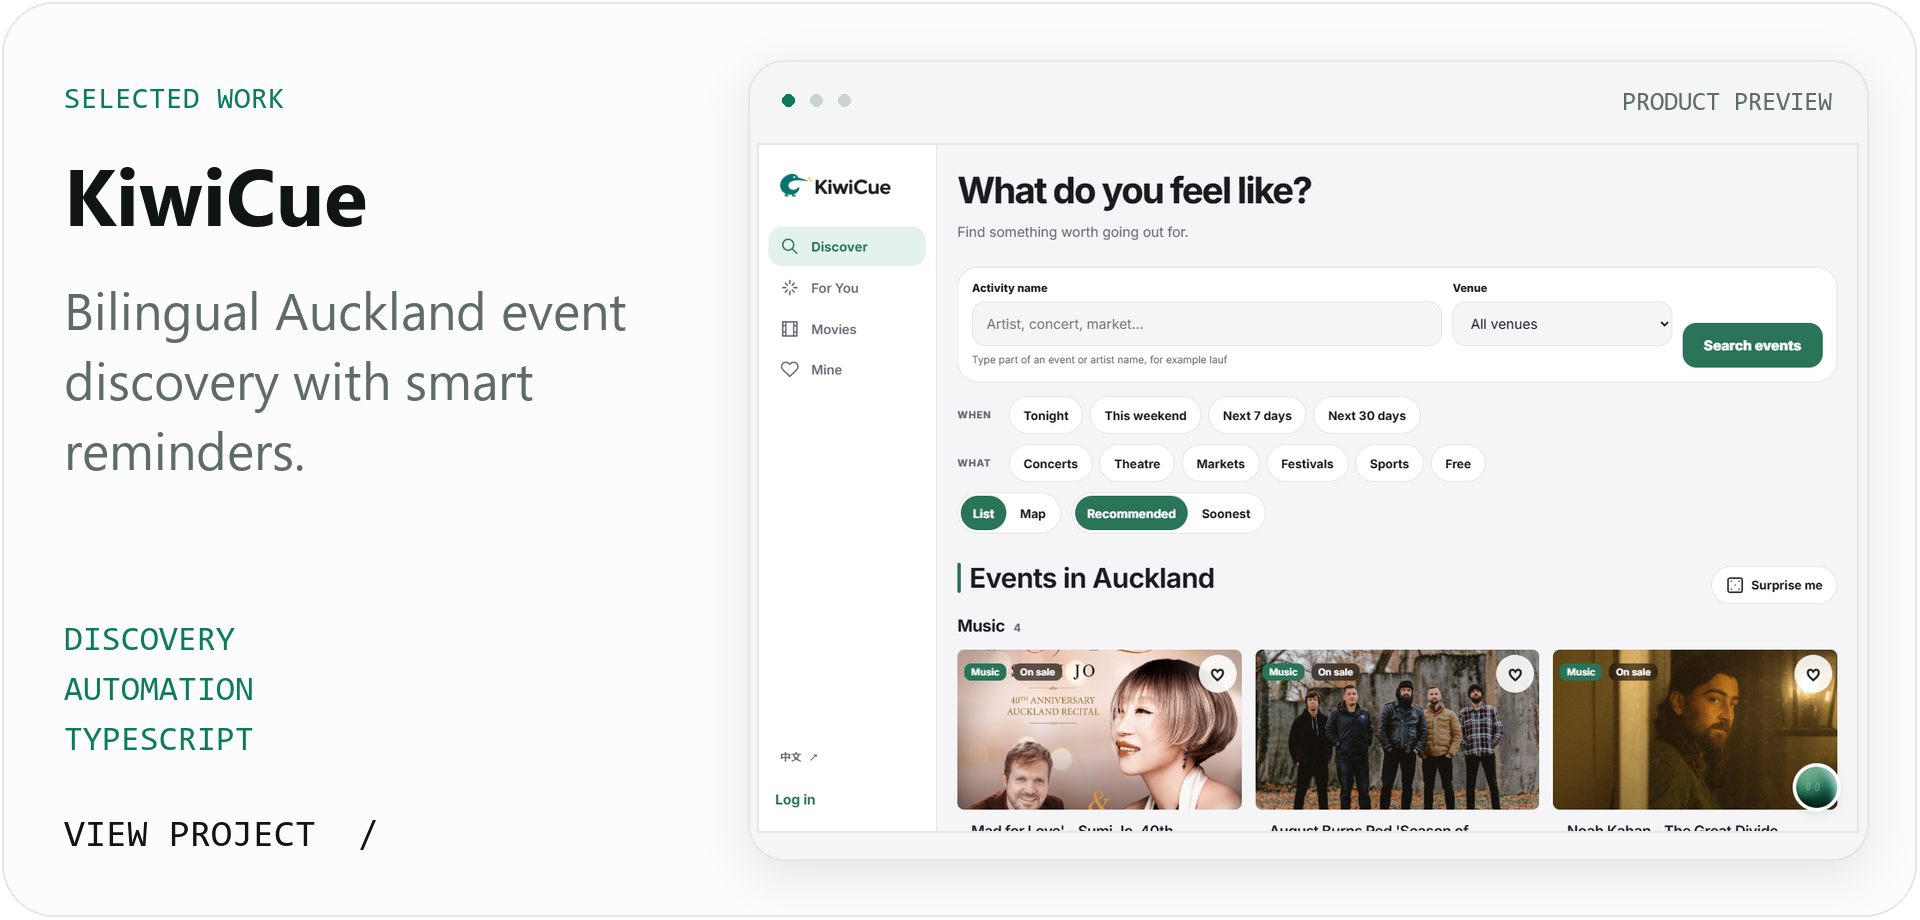
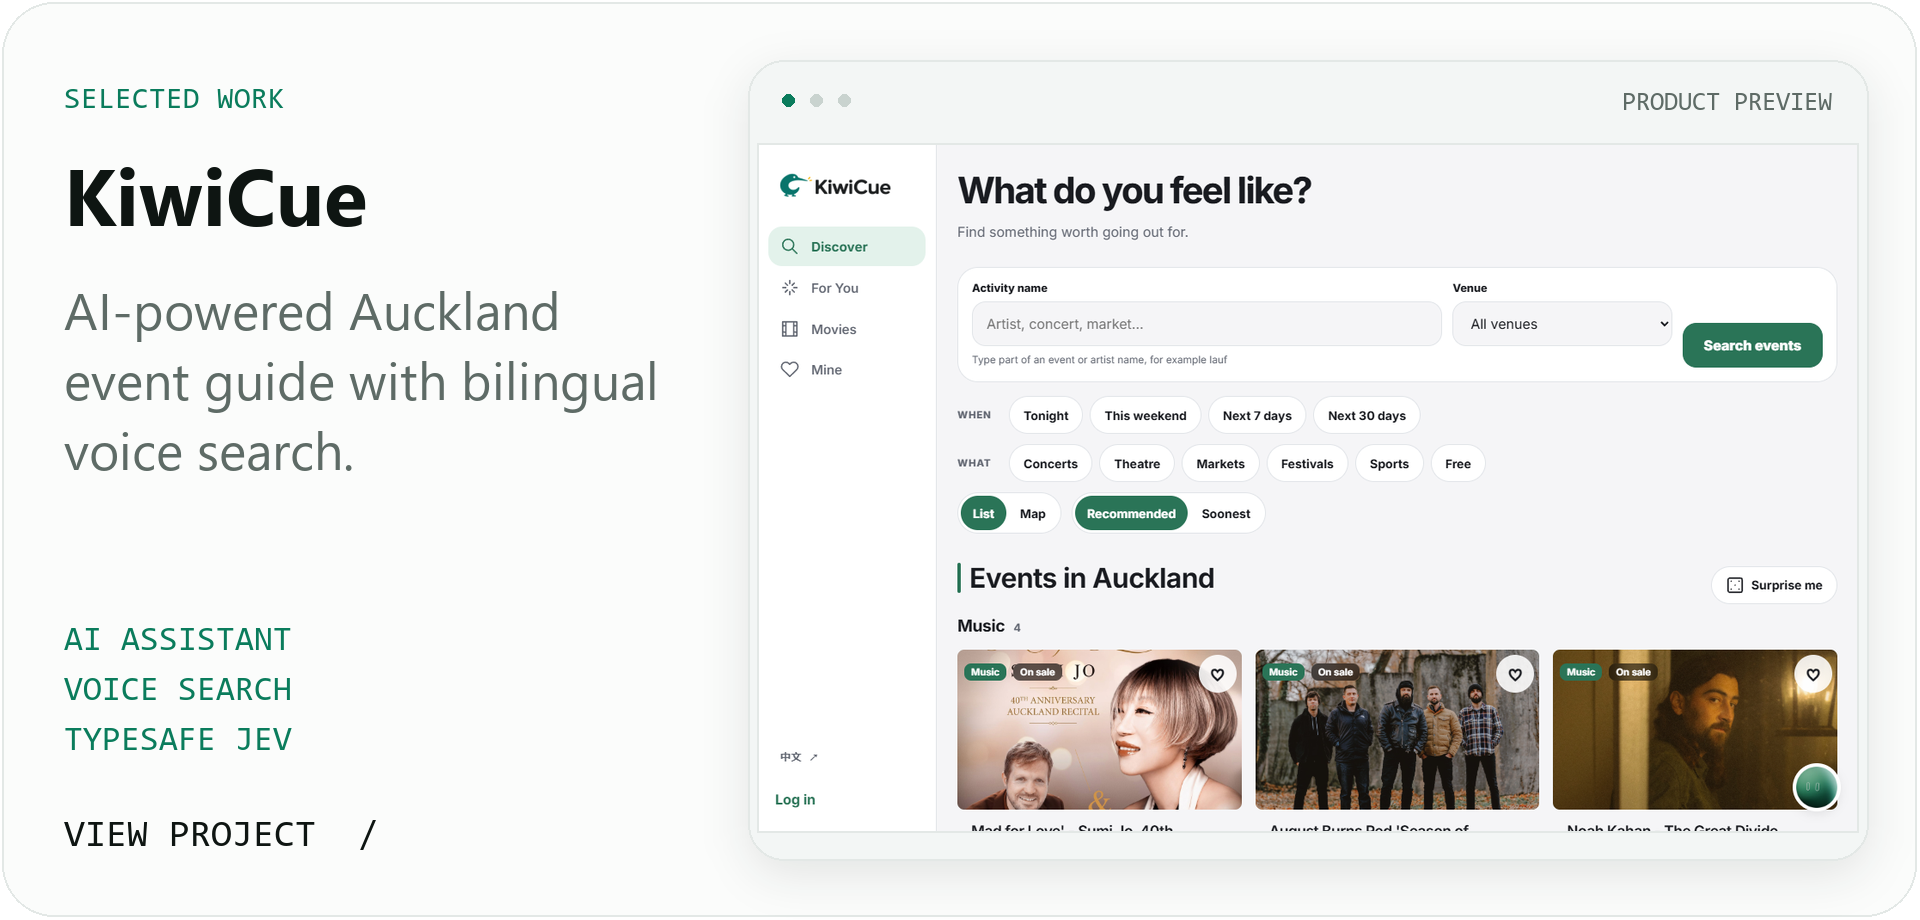
content: describe KiwiCue as AI-powered with bilingual voice search
KiwiCue's Ask feature now uses the TypeSafe Jev model for intent and
ranking, with bilingual voice input. Update the card copy and tags,
re-render the KiwiCue assets, and bump the image cache key so GitHub
refetches.

diff --git a/scripts/render_sections.py b/scripts/render_sections.py
@@ -24,8 +24,8 @@ OUTPUTS = (
 
 PROJECTS = (
     ("project-kiwicue.svg", "01 / 03", "KiwiCue",
-     "Bilingual Auckland event discovery with smart reminders.",
-     "DISCOVERY · AUTOMATION · TYPESCRIPT", ("EVENT", "MATCH", "REMIND"), ACCENT),
+     "AI-powered Auckland event guide with bilingual voice search.",
+     "AI ASSISTANT · VOICE SEARCH · TYPESAFE JEV", ("VOICE", "JEV", "RANK"), ACCENT),
     ("project-pansub.svg", "02 / 03", "PanSub",
      "Real-time AI Chinese subtitles for lecture recordings.",
      "AI · ACCESSIBILITY · JAVASCRIPT", ("AUDIO", "AI", "SUBTITLE"), VIOLET),

diff --git a/tests/test_readme.py b/tests/test_readme.py
@@ -5,7 +5,7 @@ from pathlib import Path
 
 ROOT = Path(__file__).resolve().parents[1]
 README = ROOT / "README.md"
-VERSION = "?v=light-20261005"
+VERSION = "?v=light-20261005-2"
 
 # Published modules in reading order: hero, then three project cards.
 SEQUENCE = [

diff --git a/README.md b/README.md
@@ -1,4 +1,4 @@
-![Hi, I'm Yi Han — AI automation engineer. Light hero with animated teal and violet signals: turn friction into flow.](assets/hero-split.gif?v=light-20261005)
+![Hi, I'm Yi Han — AI automation engineer. Light hero with animated teal and violet signals: turn friction into flow.](assets/hero-split.gif?v=light-20261005-2)
 
 <p align="center">
   <a href="https://hannnnnnnny.github.io/yi-han-software-engineer/">Portfolio</a>
@@ -8,14 +8,14 @@
   <a href="mailto:harryhaber606@gmail.com">Email</a>
 </p>
 
-[![KiwiCue — bilingual Auckland event discovery with smart reminders. Live screenshot of kiwicue.nz.](assets/project-kiwicue-hd.png?v=light-20261005)](https://kiwicue.nz)
+[![KiwiCue — AI-powered Auckland event guide with bilingual voice search, using the TypeSafe Jev model. Live screenshot of kiwicue.nz.](assets/project-kiwicue-hd.png?v=light-20261005-2)](https://kiwicue.nz)
 
 <p align="center"><a href="https://kiwicue.nz">Live site</a> &nbsp;·&nbsp; <a href="https://github.com/hannnnnnnny/kiwicue">Source</a></p>
 
-[![PanSub — real-time AI Chinese subtitles for lecture recordings. Screenshot of the Chrome extension on a demo lecture.](assets/project-pansub-hd.png?v=light-20261005)](https://github.com/hannnnnnnny/pansub)
+[![PanSub — real-time AI Chinese subtitles for lecture recordings. Screenshot of the Chrome extension on a demo lecture.](assets/project-pansub-hd.png?v=light-20261005-2)](https://github.com/hannnnnnnny/pansub)
 
 <p align="center"><a href="https://github.com/hannnnnnnny/pansub">Source</a></p>
 
-[![ReNova — second-hand marketplace with listings, offers, orders and reviews. Live screenshot of the deployed storefront.](assets/project-renova-hd.png?v=light-20261005)](https://renova-marketplace.vercel.app)
+[![ReNova — second-hand marketplace with listings, offers, orders and reviews. Live screenshot of the deployed storefront.](assets/project-renova-hd.png?v=light-20261005-2)](https://renova-marketplace.vercel.app)
 
 <p align="center"><a href="https://renova-marketplace.vercel.app">Live site</a> &nbsp;·&nbsp; <a href="https://github.com/hannnnnnnny/ReNova-Second-Hand-C2C-Marketplace">Source</a></p>
